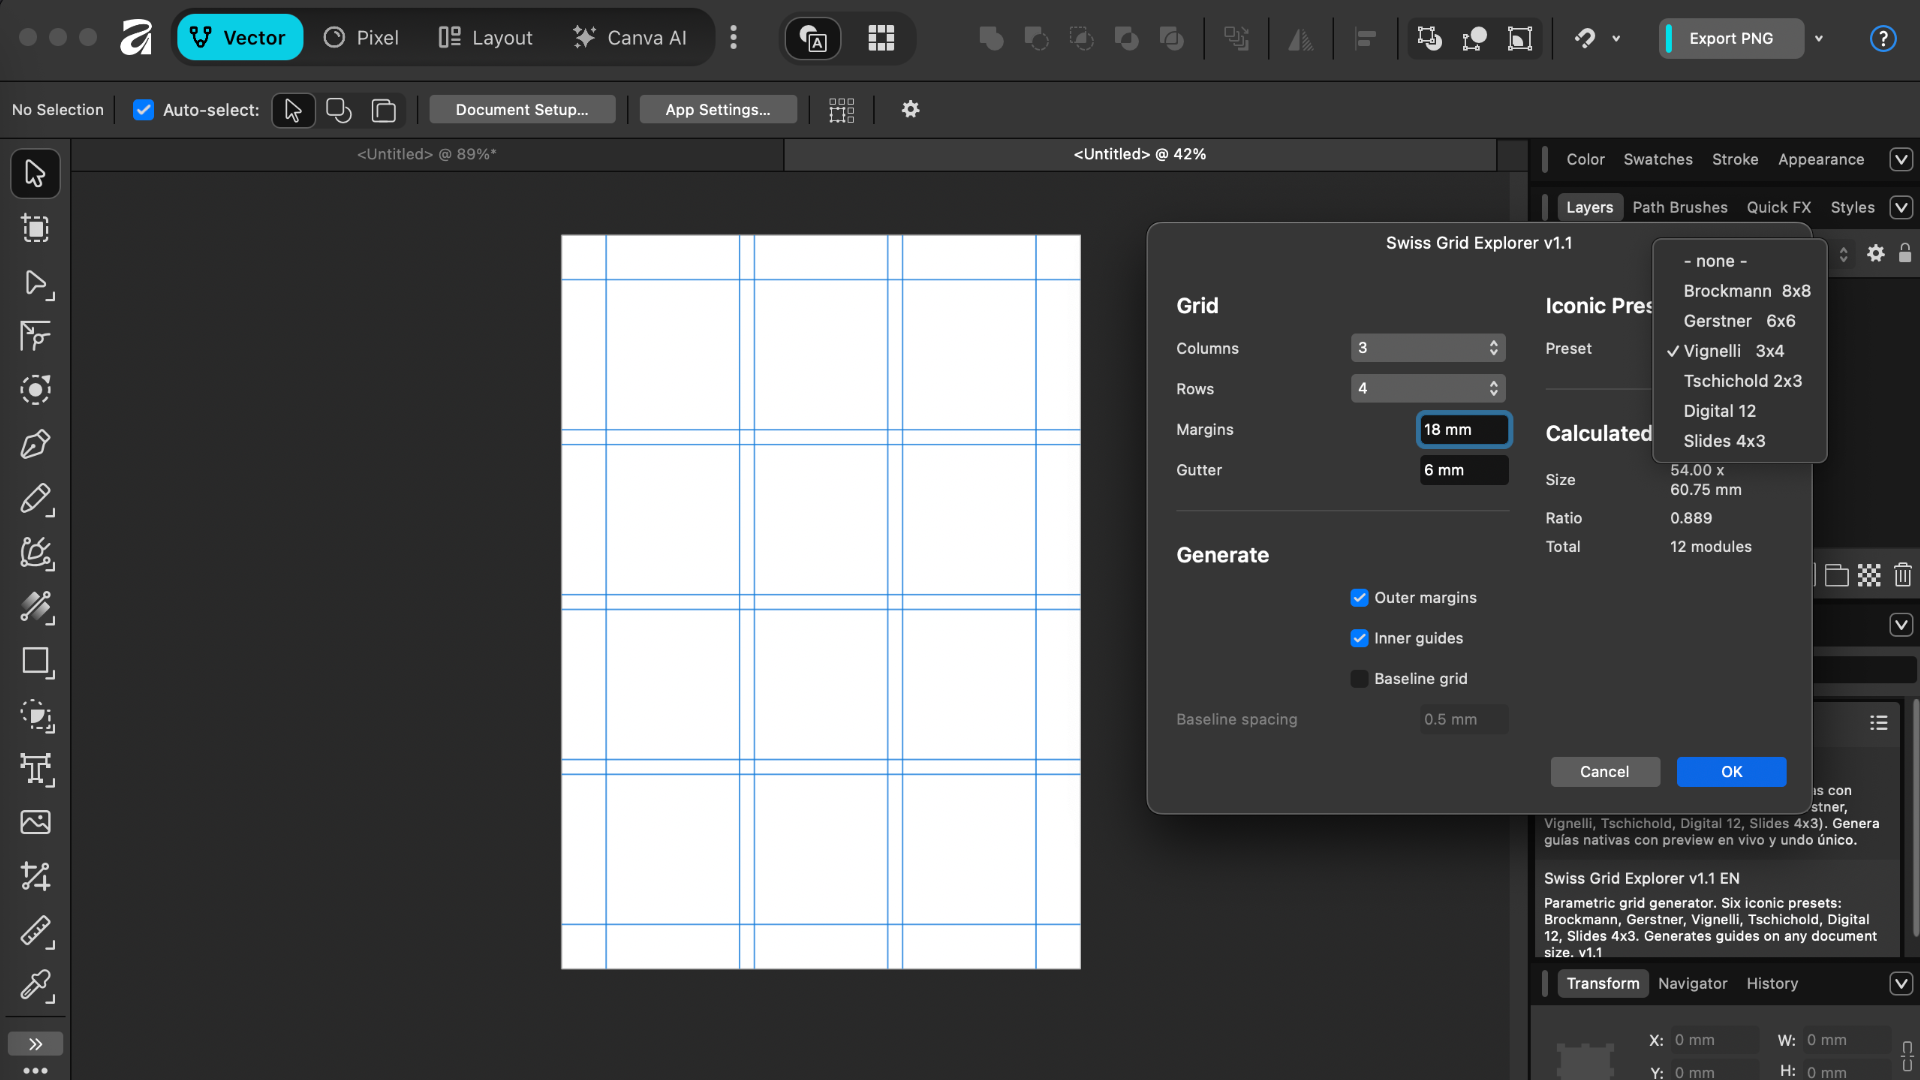
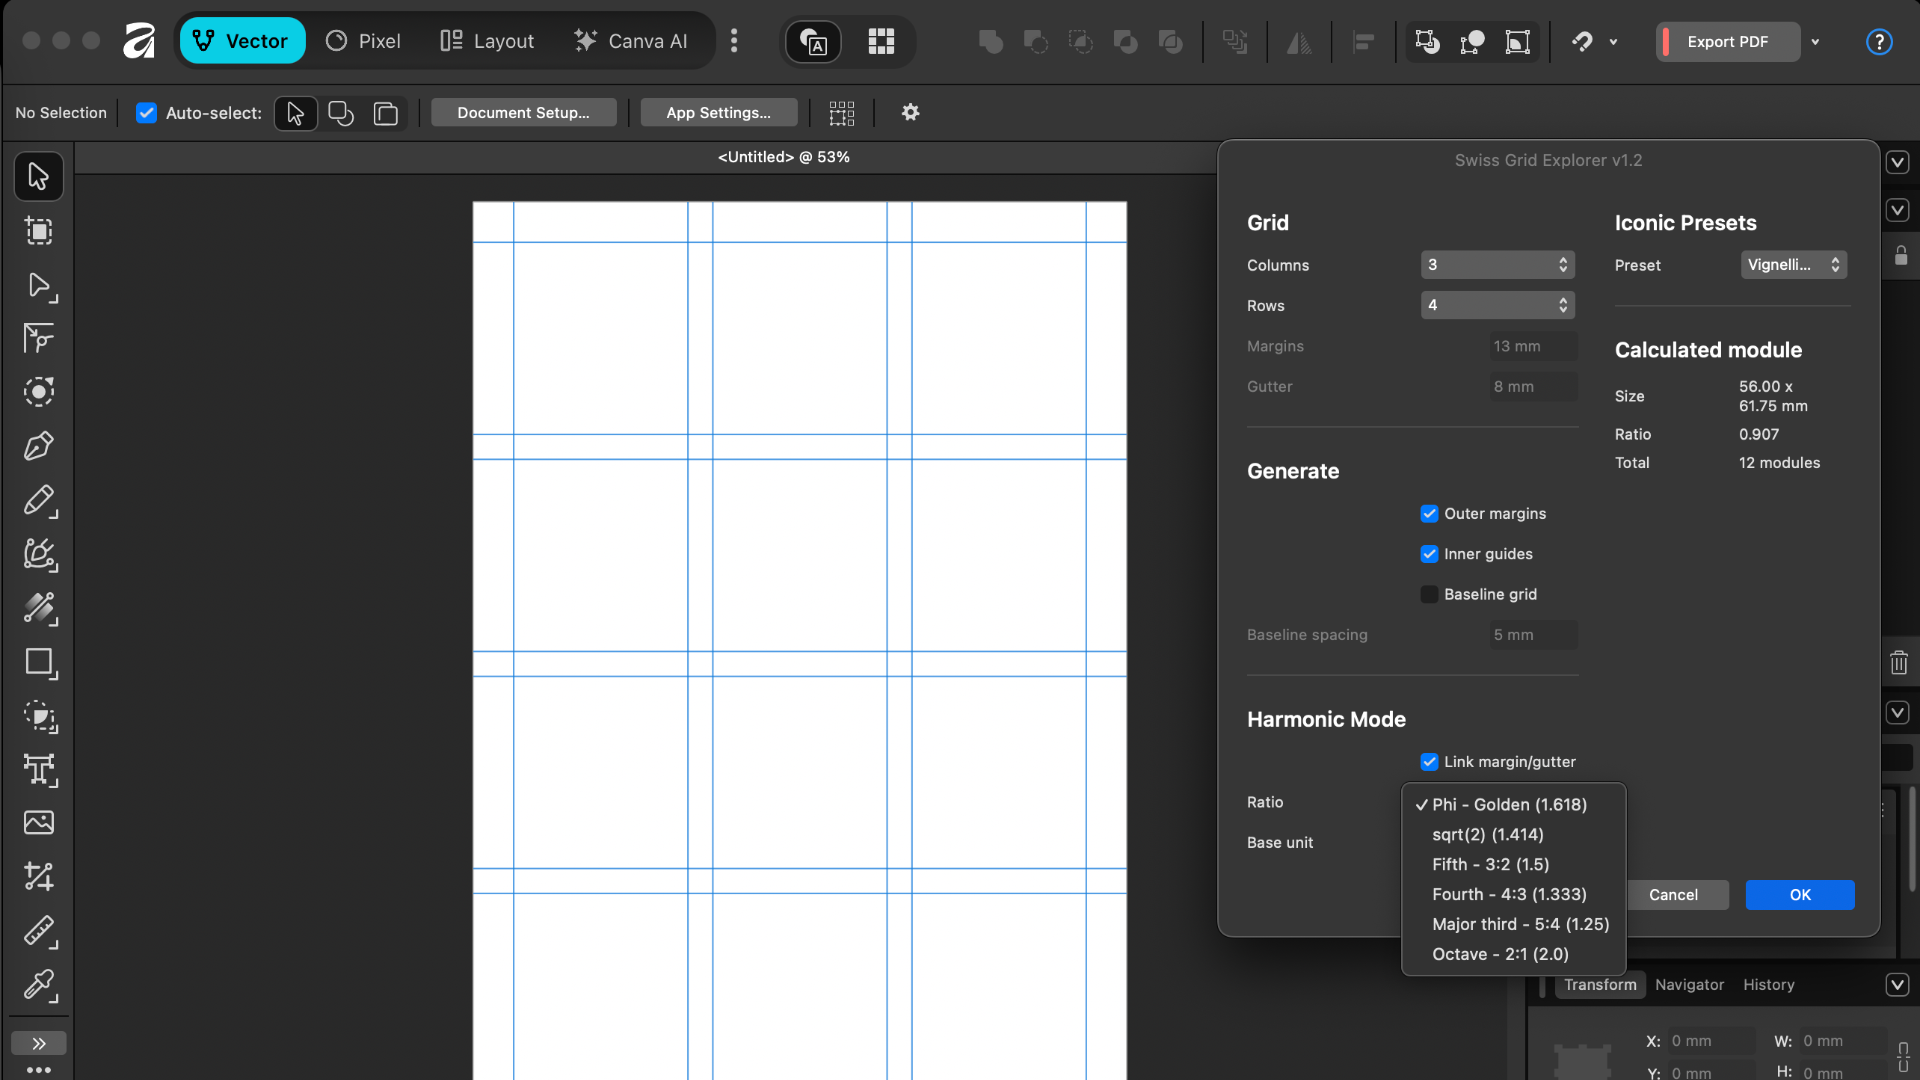
Update of Swiss Grid Generator

diff --git a/scripts/swiss_grid_generator_en.js b/scripts/swiss_grid_generator_en.js
@@ -5,7 +5,9 @@ const { Dialog, DialogResult } = require('/dialog');
 const { UnitType } = require('/units');
 const { DocumentCommand, CompoundCommandBuilder } = require('/commands');
 
-const VERSION = 'v1.1';
+const VERSION = 'v1.2';
+
+const RATIO_VALUES = [1.618, 1.414, 1.5, 1.333, 1.25, 2];
 
 const doc = Document.current;
 if (!doc) {
@@ -46,14 +48,32 @@ if (!doc) {
   const colsCombo = grpGrid.addComboBox('Columns', COL_OPTIONS.map(String), COL_OPTIONS.indexOf(8));
   const rowsCombo = grpGrid.addComboBox('Rows',    ROW_OPTIONS.map(String), ROW_OPTIONS.indexOf(8));
   const margEdit  = grpGrid.addUnitValueEditor('Margins', UnitType.Pixel, UnitType.Millimetre, 12 * mmToPx, 0, null);
+  margEdit.value = 12 * mmToPx; // workaround: Affinity SDK bug resets value to 0 when maxValue is null
   const guttEdit  = grpGrid.addUnitValueEditor('Gutter',  UnitType.Pixel, UnitType.Millimetre,  4 * mmToPx, 0, null);
+  guttEdit.value = 4 * mmToPx; // workaround: same SDK bug
 
   const grpOpts  = col1.addGroup('Generate');
   const chkOuter = grpOpts.addCheckBox('Outer margins', true);
   const chkInner = grpOpts.addCheckBox('Inner guides',  true);
   const chkBase  = grpOpts.addCheckBox('Baseline grid', false);
   const baseEdit = grpOpts.addUnitValueEditor('Baseline spacing', UnitType.Pixel, UnitType.Millimetre, 5 * mmToPx, 0.5 * mmToPx, null);
+  baseEdit.value = 5 * mmToPx; // workaround: same SDK bug
   baseEdit.isEnabled = false;
+
+  const grpHarmonic  = col1.addGroup('Harmonic Mode');
+  const chkHarmonic  = grpHarmonic.addCheckBox('Link margin/gutter to a ratio', false);
+  const ratioCombo   = grpHarmonic.addComboBox('Ratio', [
+    'Phi - Golden (1.618)',
+    'sqrt(2) (1.414)',
+    'Fifth - 3:2 (1.5)',
+    'Fourth - 4:3 (1.333)',
+    'Major third - 5:4 (1.25)',
+    'Octave - 2:1 (2.0)',
+  ], 0);
+  ratioCombo.isEnabled = false;
+  const harmBaseEdit = grpHarmonic.addUnitValueEditor('Base unit', UnitType.Pixel, UnitType.Millimetre, 8 * mmToPx, 0.5 * mmToPx, null);
+  harmBaseEdit.value = 8 * mmToPx; // workaround: same SDK bug -- this was the root cause of Harmonic Mode "doing nothing"
+  harmBaseEdit.isEnabled = false;
 
   const grpPresets  = col2.addGroup('Iconic Presets');
   const presetCombo = grpPresets.addComboBox('Preset', [
@@ -126,7 +146,77 @@ if (!doc) {
     return cmds;
   }
 
+  // Holds margin/gutter from just before harmonic mode was switched on, so
+  // switching it back off can restore them instead of leaving the
+  // harmonic-derived numbers in place permanently.
+  let lastHarmonicOn = false;
+  let preHarmonicSnapshot = null;
+
+  // Derives margin, gutter and (optionally) baseline spacing from a single
+  // base value and a master ratio, the same modular-scale logic used by the
+  // web app's harmonic mode: gutter = base, margin = base x ratio, baseline
+  // = base / ratio. Margin/gutter fields are locked (read-only) while this
+  // is on, since their value is computed rather than entered by hand.
+  function applyHarmonic() {
+    const on = chkHarmonic.value;
+
+    if (on && !lastHarmonicOn) {
+      preHarmonicSnapshot = { margin: margEdit.value, gutter: guttEdit.value };
+    } else if (!on && lastHarmonicOn) {
+      // Just turned off. If an iconic preset caused this (it sets its own
+      // deliberate margin/gutter), that value wins -- don't clobber it with
+      // the older manual snapshot.
+      if (preHarmonicSnapshot && !applyingPreset) {
+        const halfMm = 0.5 * mmToPx;
+        const cols = getCols(), rows = getRows();
+        const fits = (m, g) => (W - 2*m - (cols-1)*g)/cols > 0 && (H - 2*m - (rows-1)*g)/rows > 0;
+        let m = preHarmonicSnapshot.margin, g = preHarmonicSnapshot.gutter, attempts = 0;
+        // Cols/rows/doc size may have changed while harmonic mode was on --
+        // revalidate the restored values still produce a fitting grid.
+        while (!fits(m, g) && attempts < 30) {
+          m = Math.round(m * 0.8 / halfMm) * halfMm;
+          g = Math.max(halfMm, Math.round(g * 0.8 / halfMm) * halfMm);
+          attempts++;
+        }
+        margEdit.value = m;
+        guttEdit.value = g;
+      }
+      preHarmonicSnapshot = null;
+    }
+    lastHarmonicOn = on;
+
+    ratioCombo.isEnabled   = on;
+    harmBaseEdit.isEnabled = on;
+    margEdit.isEnabled = !on;
+    guttEdit.isEnabled = !on;
+    baseEdit.isEnabled = chkBase.value && !on;
+    if (!on) return;
+
+    const halfMm = 0.5 * mmToPx;
+    const cols = getCols(), rows = getRows();
+    const r = RATIO_VALUES[ratioCombo.selectedIndex];
+    const fits = (m, g) => (W - 2*m - (cols-1)*g)/cols > 0 && (H - 2*m - (rows-1)*g)/rows > 0;
+
+    let base = harmBaseEdit.value;
+    let m = Math.round((base * r) / halfMm) * halfMm;
+    let g = Math.max(halfMm, Math.round(base / halfMm) * halfMm);
+    let attempts = 0;
+    while (!fits(m, g) && attempts < 30) {
+      base *= 0.85;
+      m = Math.round((base * r) / halfMm) * halfMm;
+      g = Math.max(halfMm, Math.round(base / halfMm) * halfMm);
+      attempts++;
+    }
+
+    margEdit.value = m;
+    guttEdit.value = g;
+    if (chkBase.value) {
+      baseEdit.value = Math.max(halfMm, Math.round((base / r) / halfMm) * halfMm);
+    }
+  }
+
   function runPreview() {
+    applyHarmonic();
     doc.clearPreviews();
     const cmds = buildCmds();
     if (!cmds || cmds.length === 0) { updateInfo(); return; }
@@ -149,6 +239,9 @@ if (!doc) {
       m = Math.round(m * 0.8 / halfMm) * halfMm;
       g = Math.max(halfMm, Math.round(g * 0.8 / halfMm) * halfMm);
     }
+    // An iconic preset is a deliberate manual choice of margin/gutter
+    // character, so it takes precedence over harmonic mode for this run.
+    chkHarmonic.value = false;
     const ci = COL_OPTIONS.indexOf(p.cols);
     const ri = ROW_OPTIONS.indexOf(p.rows);
     if (ci >= 0) colsCombo.selectedIndex = ci;
@@ -160,7 +253,7 @@ if (!doc) {
   let applyingPreset = false;
 
   chkBase.onValueChangedHandler = () => {
-    baseEdit.isEnabled = chkBase.value;
+    baseEdit.isEnabled = chkBase.value && !chkHarmonic.value;
     runPreview();
   };
 
@@ -168,8 +261,8 @@ if (!doc) {
     if (presetCombo.selectedIndex === 0) return;
     applyingPreset = true;
     applyPreset(presetCombo.selectedIndex);
-    applyingPreset = false;
     runPreview();
+    applyingPreset = false;
   };
 
   dlg.onControlValueChangedHandler = () => {
